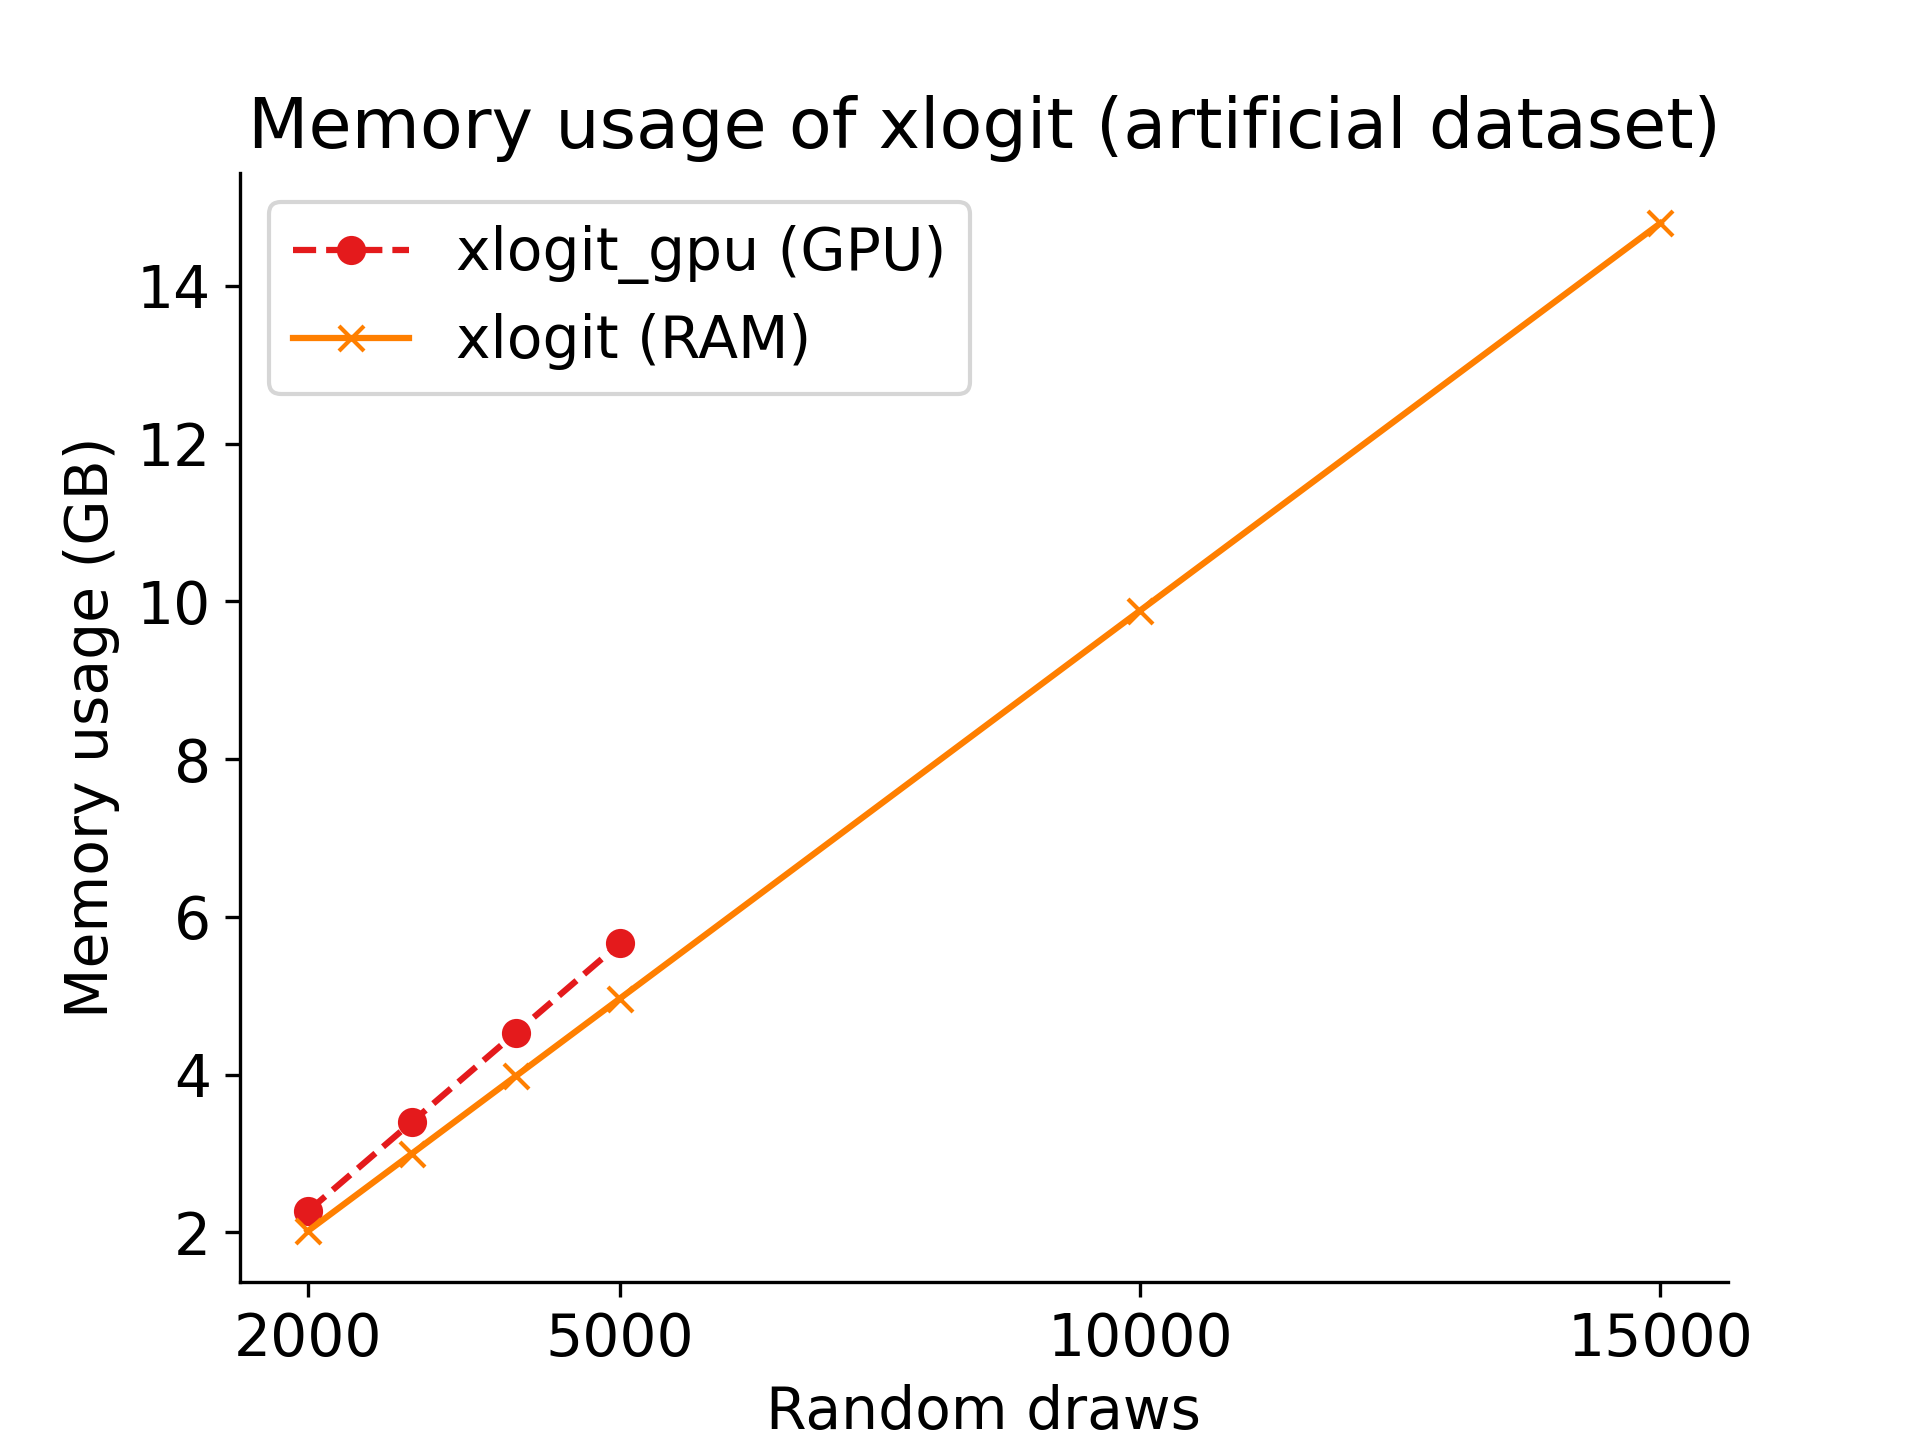
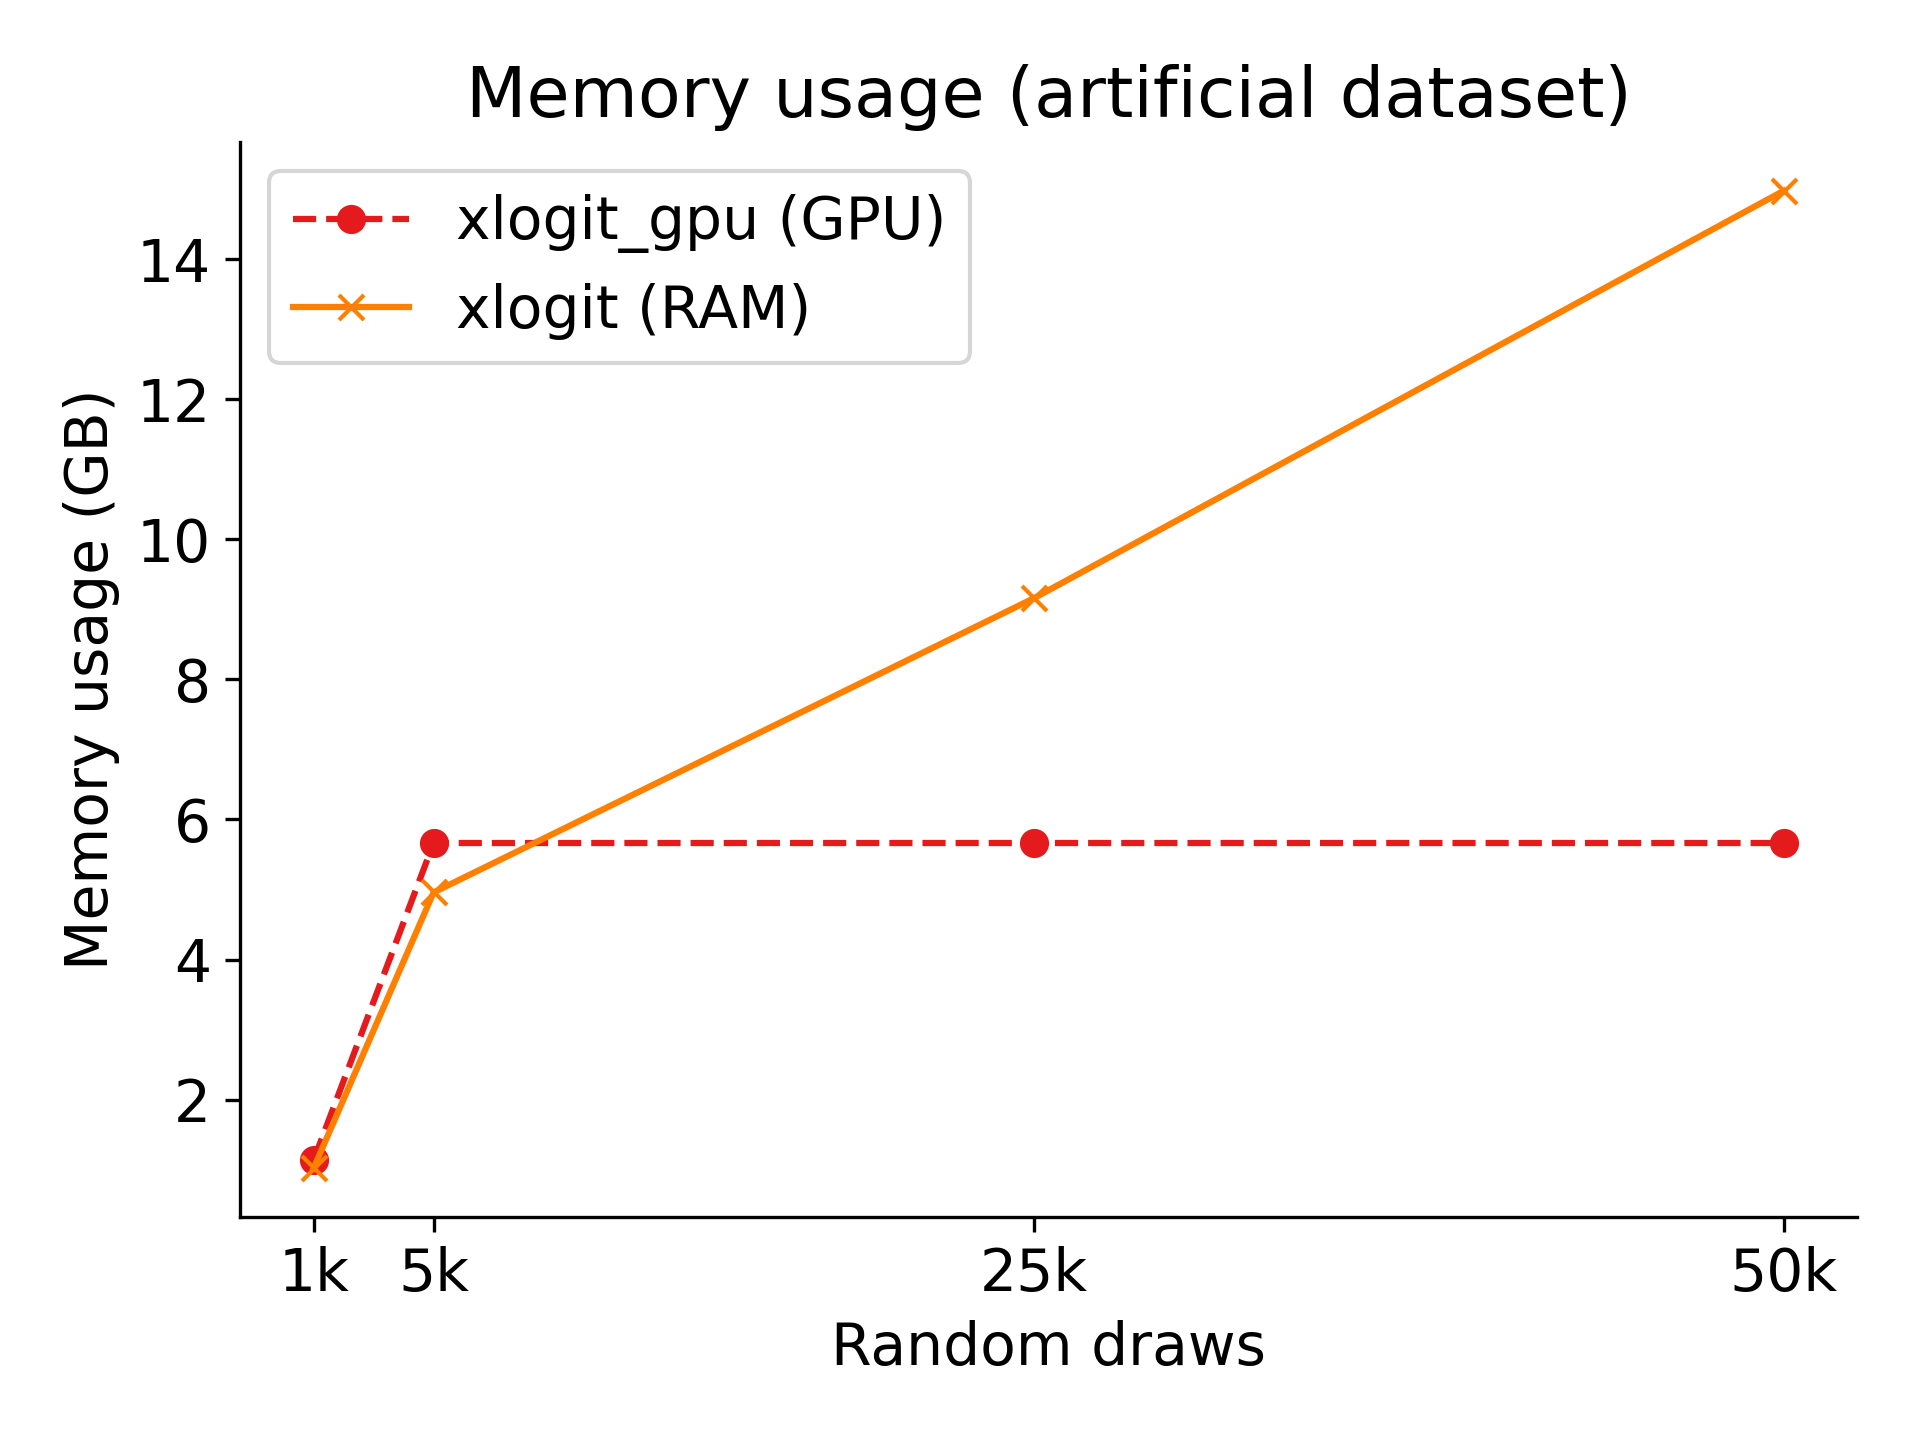
Benchmark results for batch processing updated

diff --git a/examples/benchmark/many_draws_benchmark.py b/examples/benchmark/many_draws_benchmark.py
@@ -12,15 +12,14 @@ def profile_range_draws(command, r_draws, dataset, usegpu=False):
 
 
 init_profiler_output_files()
-r_draws_gpu = [2000, 3000, 4000, 5000]
-r_draws = r_draws_gpu + [10000, 15000]
-profile_range_draws("python xlogit_run.py", r_draws_gpu, "artificial", True)
-profile_range_draws("python xlogit_run.py", r_draws, "artificial", False)
 
-r_draws_gpu = [2000, 3000, 4000, 5000, 7500]
-r_draws = r_draws_gpu + [10000, 15000, 20000]
-profile_range_draws("python xlogit_run.py", r_draws_gpu, "electricity", True)
-profile_range_draws("python xlogit_run.py", r_draws, "electricity", False)
+r_draw_artif = [1000, 5000, 25000, 50000]
+profile_range_draws("python xlogit_run_batch.py", r_draw_artif, "artificial", True)
+profile_range_draws("python xlogit_run_batch.py", r_draw_artif, "artificial", False)
+
+r_draws_elec = [5000, 50000, 250000, 500000]
+profile_range_draws("python xlogit_run_batch.py", r_draws_elec, "electricity", True)
+profile_range_draws("python xlogit_run_batch.py", r_draws_elec, "electricity", False)
 
 
 # ==========================================
@@ -29,10 +28,9 @@ profile_range_draws("python xlogit_run.py", r_draws, "electricity", False)
 import matplotlib.pyplot as plt
 import matplotlib
 import pandas as pd
+import matplotlib.ticker as tick
 
-matplotlib.rcParams.update({'font.size': 14,
-                            'axes.spines.right': False,
-                            'axes.spines.top': False})
+matplotlib.rcParams.update({'font.size': 14, 'axes.spines.right': False, 'axes.spines.top': False})
 markers = ['o', 'x']
 colors = ["#e41a1c", "#ff7f00"]
 lines = ['--', '-']
@@ -43,8 +41,8 @@ libs = ['xlogit_gpu', 'xlogit']
 datasets = ['artificial', 'electricity']
 memtypes = ["gpu", "ram"]
 
-xticks = {'artificial': [2000, 5000, 10000, 15000],
-           'electricity': [2000, 5000, 7500, 10000, 15000, 20000]}
+xticks = {'artificial': r_draw_artif,
+           'electricity': r_draws_elec}
 
 def plot_memory_benchmark(dataset):
     dfe = df[df.dataset == dataset]
@@ -59,8 +57,9 @@ def plot_memory_benchmark(dataset):
     plt.legend(leg)
     plt.xlabel("Random draws")
     plt.ylabel("Memory usage (GB)")
-    plt.xticks(xticks[dataset])
-    plt.title(f"Memory usage of xlogit ({dataset} dataset)")
+    plt.xticks(ticks=xticks[dataset], labels=[f"{x//1000}k" for x in xticks[dataset]])
+    plt.title(f"Memory usage ({dataset} dataset)")
+    plt.tight_layout()
     plt.savefig(f"results/memory_many_draws_{dataset}", dpi=300)
     plt.show()
 
@@ -72,9 +71,11 @@ def plot_time_benchmark(dataset):
         plt.plot(d[0], d[1], marker=markers[i], c=colors[i])
     plt.legend(libs)
     plt.xlabel("Random draws")
-    plt.ylabel("Time (Seconds)")
-    plt.xticks(xticks[dataset])
+    plt.ylabel("Time (Minutes)")
+    plt.xticks(ticks=xticks[dataset], labels=[f"{x//1000}k" for x in xticks[dataset]])
     plt.title("Estimation time ("+dataset+" dataset)")
+    plt.gca().yaxis.set_major_formatter(tick.FuncFormatter(lambda val, pos: int(val//60)))
+    plt.tight_layout()
     plt.savefig(f"results/time_many_draws_{dataset}", dpi=300)
     plt.show()
     

diff --git a/examples/benchmark/benchmark.py b/examples/benchmark/benchmark.py
@@ -6,7 +6,7 @@ to make sure all the requirments are satisfied.
 import os
 from tools import init_profiler_output_files, log
 import sys
-# sys.path.append("../../")  # Path of xlogit library root folder.
+sys.path.append("../../")  # Path of xlogit library root folder.
 from xlogit import MixedLogit
 
 MixedLogit.check_if_gpu_available()
@@ -44,13 +44,13 @@ else:
 
 # Run profiling
 log("\n\n********* PYLOGIT AND MLOGIT BENCHMARK *********")
-profile_range_draws("python xlogit_run.py", r_draws, "artificial", True)
-profile_range_draws("python xlogit_run.py", r_draws, "artificial")
+profile_range_draws("python xlogit_run_batch.py", r_draws, "artificial", True)
+profile_range_draws("python xlogit_run_batch.py", r_draws, "artificial")
 profile_range_draws("python pylogit_run.py", r_draws, "artificial")
 profile_range_draws("Rscript mlogit_run.R", r_draws, "artificial")
 profile_range_draws("Rscript gmnl_run.R", r_draws, "artificial")
-profile_range_draws("python xlogit_run.py", r_draws, "electricity", True)
-profile_range_draws("python xlogit_run.py", r_draws, "electricity")
+profile_range_draws("python xlogit_run_batch.py", r_draws, "electricity", True)
+profile_range_draws("python xlogit_run_batch.py", r_draws, "electricity")
 profile_range_draws("python pylogit_run.py", r_draws, "electricity")
 profile_range_draws("Rscript mlogit_run.R", r_draws, "electricity")
 profile_range_draws("Rscript gmnl_run.R", r_draws, "electricity")
